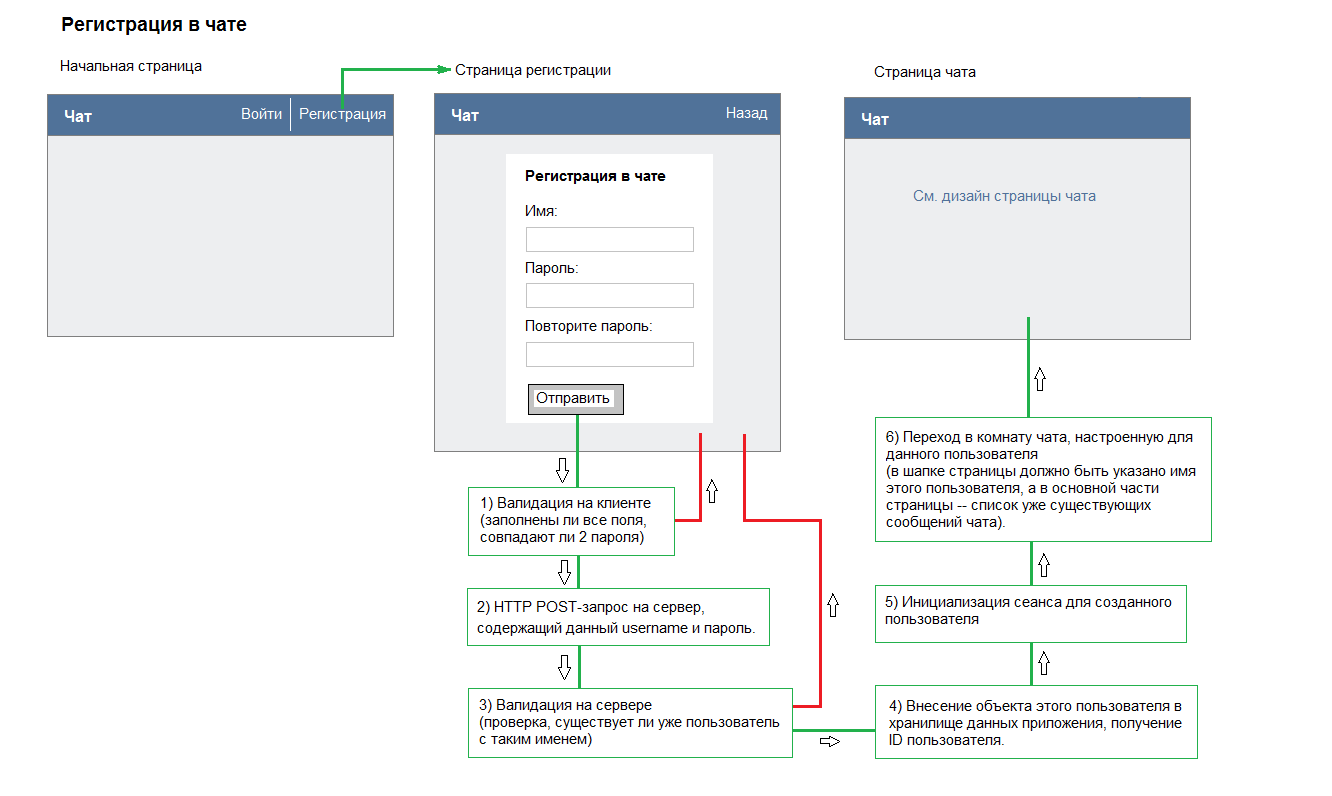
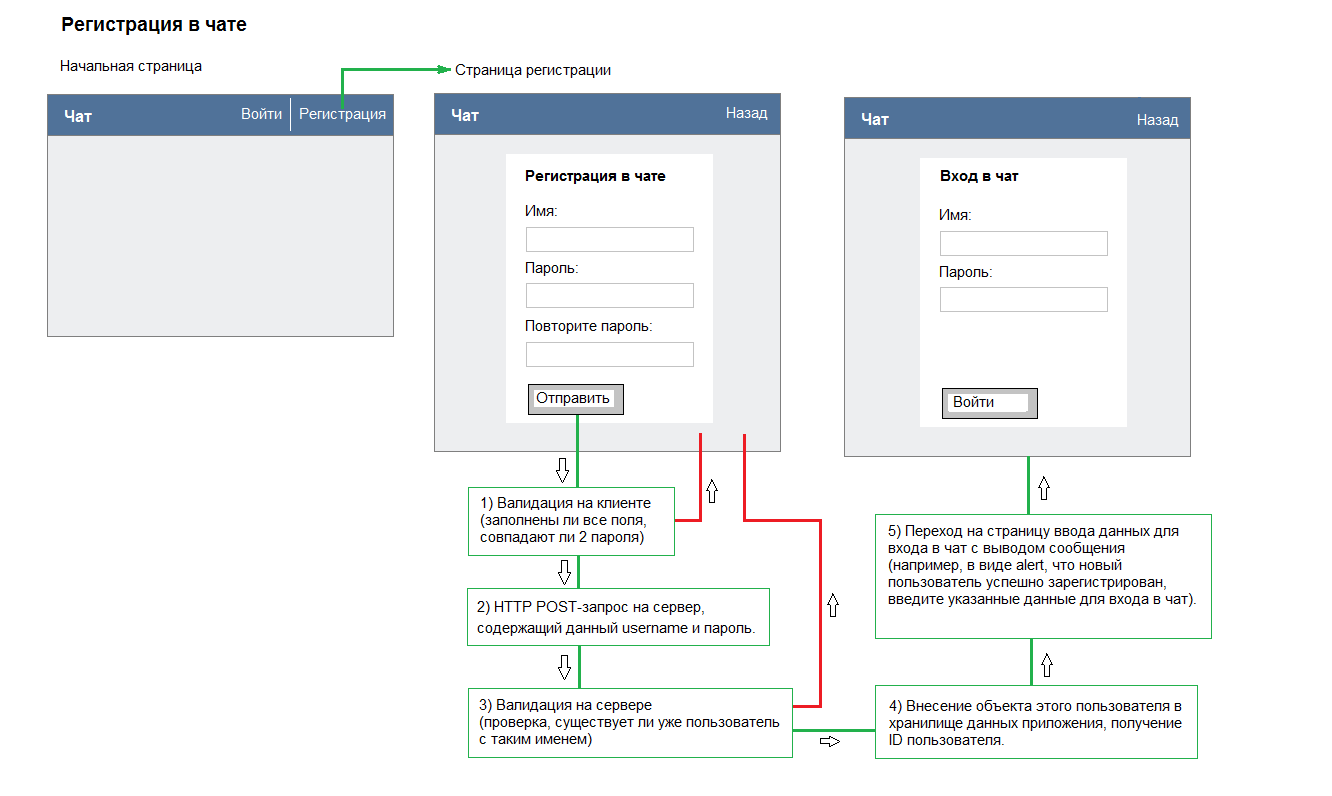
Авторизация: начальная страница чата

diff --git a/AspChat/Client/js/pages/StartPage/StartPage.js b/AspChat/Client/js/pages/StartPage/StartPage.js
@@ -1,9 +1,24 @@
 import React from 'react';
+import { Link } from 'react-router';
+
+import styles from "./StartPage.css"
 
 export default class StartPage extends React.Component {
     render() {
         return (
-            <h1>Начальная страница</h1>
+            <div className={ styles.body }>
+                <header className={ styles.header }>
+                    <div className={ styles.chatLabel }>Чат</div>
+                    <div className={ styles.headerLinks }>
+                        <Link className={ styles.enterLink } to="login">
+                            Войти
+                        </Link>
+                        <Link className={ styles.registerLink } to="register">
+                            Регистрация
+                        </Link>
+                    </div> 
+                </header>
+            </div>
         );
     }
 }

diff --git a/AspChat/Client/js/client.js b/AspChat/Client/js/client.js
@@ -1,10 +1,12 @@
 import React from 'react';
 import ReactDOM from 'react-dom';
 import { Provider } from 'react-redux';
-import { Router, Route, browserHistory} from "react-router";
+import { Router, Route, browserHistory, IndexRoute } from "react-router";
 import { syncHistoryWithStore } from "react-router-redux";
 
 import StartPage from "./pages/StartPage";
+import RegisterPage from "./pages/RegisterPage";
+import LoginPage from "./pages/LoginPage";
 import store from './store';
 
 const history = syncHistoryWithStore(browserHistory, store);
@@ -14,6 +16,8 @@ ReactDOM.render(
     <Provider store={store}>
         <Router history={history}>
             <Route path="/" component={StartPage}></Route>
+            <Route path="register" component={RegisterPage}></Route>
+            <Route path="login" component={LoginPage}></Route>
         </Router>
     </Provider>
 , app);

diff --git a/AspChat/Client/js/pages/StartPage/StartPage.css b/AspChat/Client/js/pages/StartPage/StartPage.css
@@ -1,0 +1,45 @@
+@import url("../../reset.css");
+
+body {
+    font-family: Verdana, Geneva, sans-serif;
+    background-color: #edeef0;
+}
+
+.header {
+    position: relative;
+    height: 41px;
+    background-color: #507299;
+}
+
+.chatLabel {
+    position: absolute;
+    top: 50%;
+    left: 0;
+    margin-left: 200px;
+    font-size: 16px;
+    font-weight: 700;
+    color: #fff;
+    letter-spacing: 1px;
+    transform: translateY(-50%);
+}
+
+.headerLinks {
+    position: absolute;
+    top: 50%;
+    right: 0;
+    margin-right: 250px;
+    font-size: 13px;
+    transform: translateY(-50%);
+}
+
+.enterLink,
+.registerLink {
+    display: inline-block;
+    color: #fff;
+}
+
+.registerLink {
+    padding-left: 10px;
+    margin-left: 10px;
+    border-left: 1px solid #fff;
+}

diff --git a/AspChat/Client/js/pages/RegisterPage/RegisterPage.js b/AspChat/Client/js/pages/RegisterPage/RegisterPage.js
@@ -1,0 +1,10 @@
+import React from "react";
+import { Link } from "react-router";
+
+export default class RegisterPage extends React.Component {
+    render() {
+        return (
+            <h1>Страница регистрации <Link to="/">Назад</Link></h1>
+        );
+    }
+}

diff --git a/AspChat/Client/js/pages/LoginPage/LoginPage.js b/AspChat/Client/js/pages/LoginPage/LoginPage.js
@@ -1,0 +1,9 @@
+import React from "react";
+
+export default class LoginPage extends React.Component {
+    render() {
+        return (
+            <h1>Страница входа в систему</h1>
+        );
+    }
+}

diff --git a/AspChat/Client/js/pages/RegisterPage/index.js b/AspChat/Client/js/pages/RegisterPage/index.js
@@ -1,0 +1,2 @@
+import RegisterPage from "./RegisterPage";
+export default RegisterPage;

diff --git a/AspChat/Client/js/pages/LoginPage/index.js b/AspChat/Client/js/pages/LoginPage/index.js
@@ -1,0 +1,2 @@
+import LoginPage from "./LoginPage";
+export default LoginPage;
